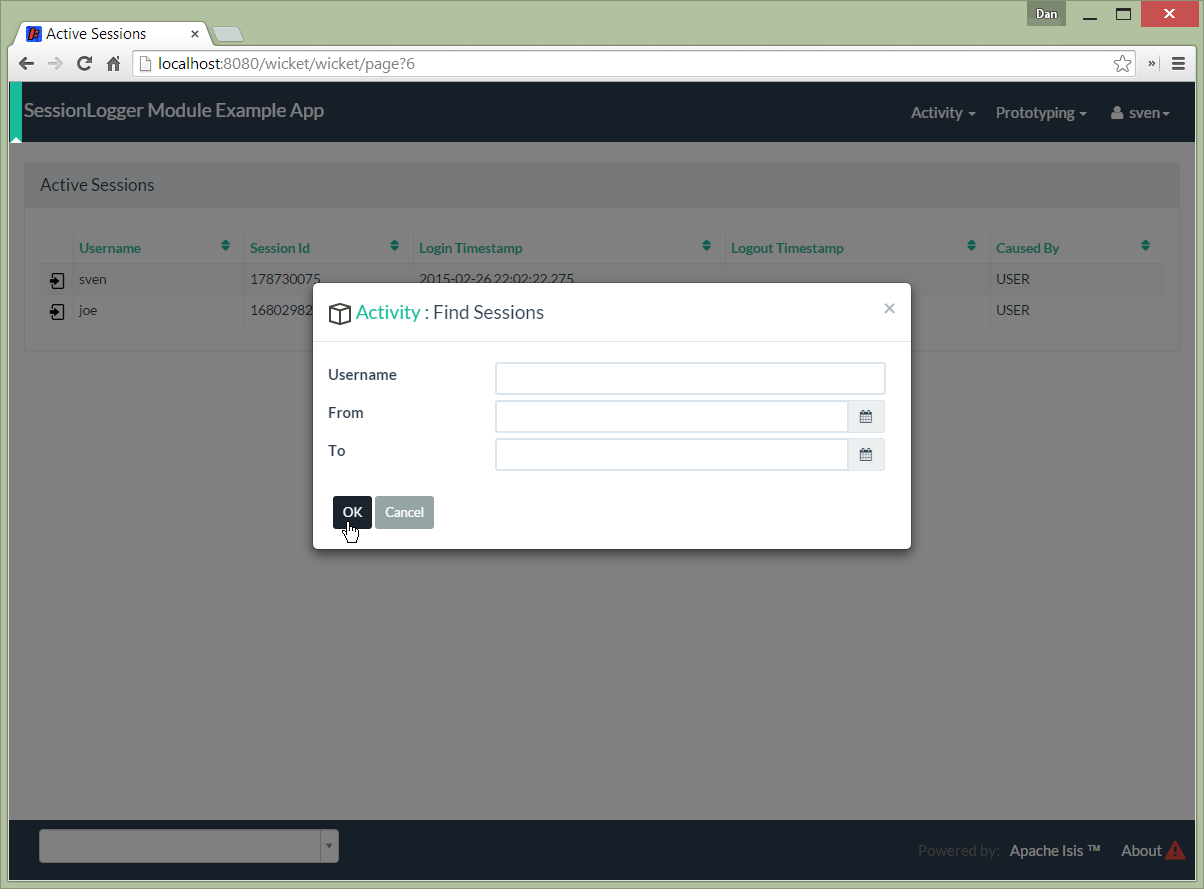
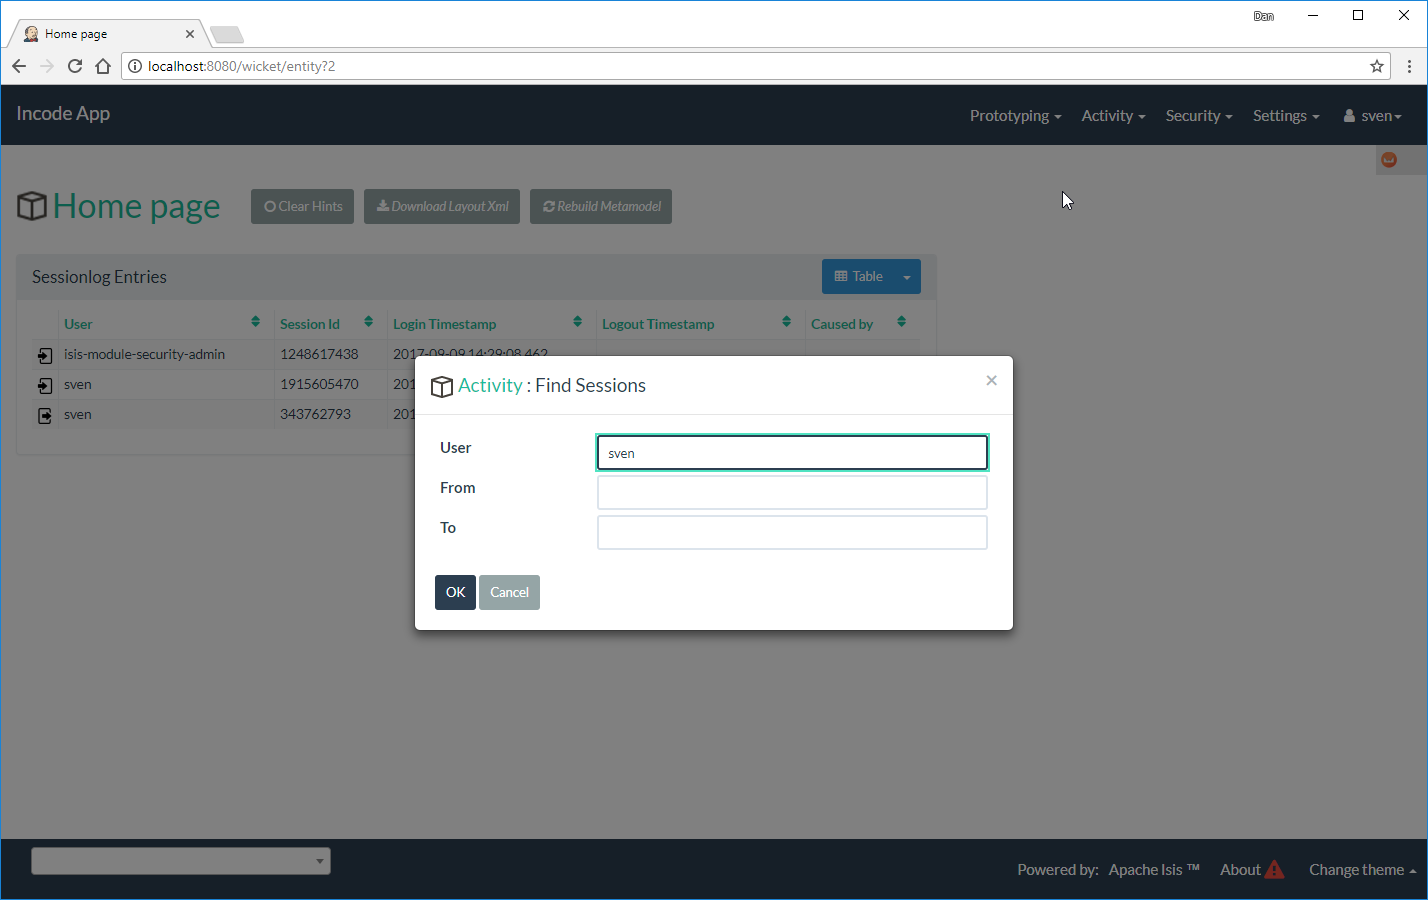
screenshots for session logger manifest

Changed region(s): [[0.0, 0.0, 1.0, 1.0], [0.8297, 0.2733, 0.8912, 0.3645], [0.7375, 0.2126, 0.7683, 0.243]]

diff --git a/ex/app/quickstart/example/appdefn/src/main/java/org/incode/domainapp/example/app/modules/ExampleDomSpiSessionLoggerAppManifest.java b/ex/app/quickstart/example/appdefn/src/main/java/org/incode/domainapp/example/app/modules/ExampleDomSpiSessionLoggerAppManifest.java
@@ -1,0 +1,70 @@
+package org.incode.domainapp.example.app.modules;
+
+import java.util.List;
+
+import javax.inject.Inject;
+
+import org.apache.isis.applib.AppManifestAbstract;
+import org.apache.isis.applib.annotation.CollectionLayout;
+import org.apache.isis.applib.annotation.DomainObject;
+import org.apache.isis.applib.annotation.HomePage;
+import org.apache.isis.applib.annotation.Nature;
+import org.apache.isis.applib.services.repository.RepositoryService;
+
+import org.isisaddons.module.security.dom.password.PasswordEncryptionServiceUsingJBcrypt;
+import org.isisaddons.module.security.dom.permission.PermissionsEvaluationServiceAllowBeatsVeto;
+import org.isisaddons.module.sessionlogger.SessionLoggerModule;
+import org.isisaddons.module.sessionlogger.dom.SessionLogEntry;
+
+import domainapp.appdefn.DomainAppAppManifestAbstract;
+import domainapp.appdefn.seed.security.SeedSuperAdministratorRoleAndSvenSuperUser;
+
+public class ExampleDomSpiSessionLoggerAppManifest extends AppManifestAbstract {
+
+    public static final Builder BUILDER = DomainAppAppManifestAbstract.BUILDER.withAdditionalModules(
+
+            SessionLoggerModule.class
+        )
+        .withFixtureScripts(
+                SeedSuperAdministratorRoleAndSvenSuperUser.class
+        )
+        .withAdditionalServices(
+                HomePageProvider.class,
+                // necessary because of ISIS-1710
+                PasswordEncryptionServiceUsingJBcrypt.class,
+                PermissionsEvaluationServiceAllowBeatsVeto.class
+        );
+
+    public ExampleDomSpiSessionLoggerAppManifest() {
+        super(BUILDER);
+    }
+
+    @DomainObject(
+            objectType = "HomePageProvider" // bit of a hack; this is a (manually registered) service actually
+    )
+    public static class HomePageProvider {
+
+        @HomePage
+        public HomePageViewModel homePage() {
+            return new HomePageViewModel();
+        }
+    }
+
+    @DomainObject(
+            nature = Nature.VIEW_MODEL,
+            objectType = "HomePageViewModel"
+    )
+    public static class HomePageViewModel {
+
+        public String title() { return "Home page"; }
+
+        @CollectionLayout(defaultView = "table")
+        public List<SessionLogEntry> getSessionlogEntries() {
+            return repositoryService.allInstances(SessionLogEntry.class);
+        }
+
+        @Inject RepositoryService repositoryService;
+
+    }
+
+}
